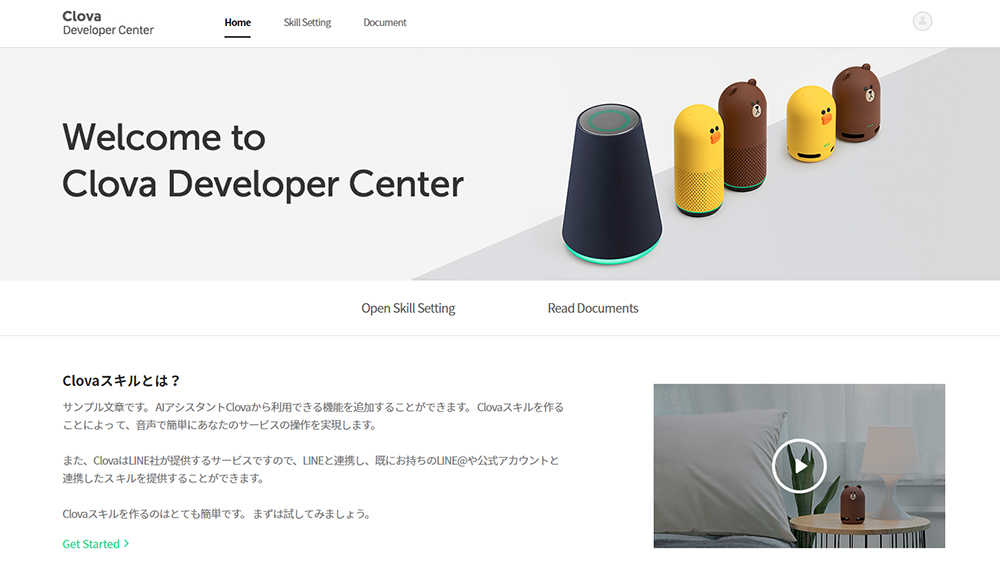
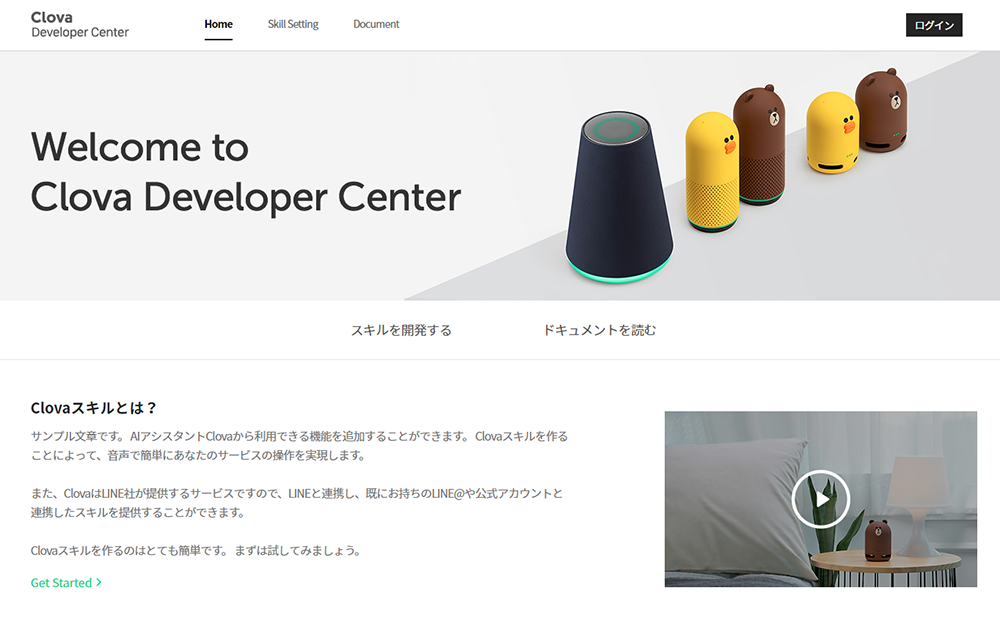
Replace two images, modify menu text.
- Replaced two image files for Developer Center Home.
- Modified menu text.
- Fix typo (LINE Developers).

Former-commit-id: 2998be8f5d05034a39bca3e51213a9cce533f538 [formerly 229ac03750c0b6b4aa55d9aae0740bbbc2c490c3]
Former-commit-id: 20a98e47f7930c2b743bd5c26ba3eaf284117ece

diff --git a/ja/DevConsole/Guides/CEK/Create_Channel.md b/ja/DevConsole/Guides/CEK/Create_Channel.md
@@ -14,7 +14,7 @@ Clova Developer Center βにログインします。
 2. 同意画面が表示されたら、**同意する** をクリックします（初回ログイン時のみ）。  
 ![](/DevConsole/Resources/Images/DevConsole-Access_Agreement.png)
 
-3. **Skill Setting** または **Open Skill Setting** をクリックします。  
+3. **Skill Setting** または **スキルを開発する** をクリックします。  
 ![](/DevConsole/Resources/Images/DevConsole-DevConsole_Home.png)
 
 4. **LINE Developersに遷移してスキルを作成** をクリックします。  
@@ -45,16 +45,20 @@ LINE Developersコンソールでチャネルを作成します。
   新規プロバイダーを作成する場合は、ラジオボタンで **新規プロバイダー作成** を選択すると入力フォームが表示されます。**新しく追加するプロバイダー名** を入力して **次のページ** をクリックします。  
 ![](/DevConsole/Resources/Images/DevConsole-Create_Channel_2.png)
 
-  ご自分の名前、あるいは企業名などを入力してください。</p>
+  <div class="note">
+    <p><strong>メモ</strong></p>
+    <p>プロバイダーとは、アプリを提供する組織のことです。
+    ご自分の名前、あるいは企業名などを入力してください。</p>
+  </div>  
 
 3. **チャネル名** を入力し、**入力内容を確認する** をクリックします。  
 ![](/DevConsole/Resources/Images/DevConsole-Create_Channel_3.png)
 
-<div class="note">
-  <p><strong>メモ</strong></p>
-  <p>チャネル名は、あなたがスキルを管理するために利用します。
-  Clovaで提供するサービスの名前などを入力してください。</p>
-</div>
+    <div class="note">
+      <p><strong>メモ</strong></p>
+      <p>チャネル名は、あなたがスキルを管理するために利用します。
+      Clovaで提供するサービスの名前などを入力してください。</p>
+    </div>
 
 4. 内容を確認し、**作成してClova Developer Centerに移動** をクリックします。  
 ![](/DevConsole/Resources/Images/DevConsole-Create_Channel_4.png)

diff --git a/ja/DevConsole/Guides/CEK/Using_CEK_Menu.md b/ja/DevConsole/Guides/CEK/Using_CEK_Menu.md
@@ -1,6 +1,6 @@
 # CEKメニューを使用する
 
-Clova Developer CenterのCEKメニューは、Extensionを登録および配布する際に使用されます。CEKメニューでExtensionを登録し、また、[CEK](/CEK/CEK_Overview.md#WhatisCEK)がClovaとExtensionの間で情報を交換するためのサーバー連携情報や、ユーザーリクエストを正しく解析するための対話モデルを定義します。**Skill Setting**、または **Open Skill Setting** をクリックすると、CEKのメニューに入ります。
+Clova Developer CenterのCEKメニューは、Extensionを登録および配布する際に使用されます。CEKメニューでExtensionを登録し、また、[CEK](/CEK/CEK_Overview.md#WhatisCEK)がClovaとExtensionの間で情報を交換するためのサーバー連携情報や、ユーザーリクエストを正しく解析するための対話モデルを定義します。**Skill Setting**、または **スキルを開発する** をクリックすると、CEKのメニューに入ります。
 
 ![](/DevConsole/Resources/Images/DevConsole-Entering_CEK_Menu.png)
 

diff --git a/ja/DevConsole/Guides/CEK/Register_Extension.md b/ja/DevConsole/Guides/CEK/Register_Extension.md
@@ -1,6 +1,6 @@
 # Extensionを登録する
 
-LINE Developer コンソールで[チャネルを作成](/CEK/Guides/Create_Channel.md)すると、**Clova Developer Center β** に遷移し、下記の画面が開きます。ここで必要な情報を入力し、Extensionの登録を完了させます。  
+LINE Developersコンソールで[チャネルを作成](/CEK/Guides/Create_Channel.md)すると、**Clova Developer Center β** に遷移し、下記の画面が開きます。ここで必要な情報を入力し、Extensionの登録を完了させます。  
 ![](/DevConsole/Resources/Images/DevConsole-New_Extension.png)
 
 Extensionの登録は、通常、次の順で行われます。
